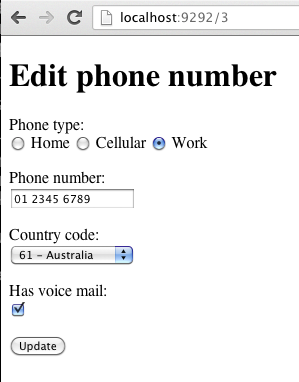
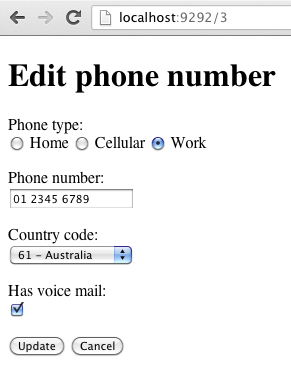
Added Cancel button to 142 so 'if' statement is needed.

Changed region(s): [[0.0, 0.0, 1.0, 1.0]]

diff --git a/142f-international-phone/controller.rb b/142f-international-phone/controller.rb
@@ -11,11 +11,15 @@ get "/:id" do
 end
 
 post "/:id" do
-  @phone                = Phone.find(params[:id])
-  @phone.number         = params[:number]
-  @phone.country_code   = params[:country_code]
-  @phone.phone_type     = params[:phone_type]
-  @phone.has_voice_mail = params[:has_voice_mail] == "on"
-  @phone.save!
-  redirect "/"
+  if params[:commit] == "Cancel"
+    redirect "/"
+  else
+    @phone                = Phone.find(params[:id])
+    @phone.number         = params[:number]
+    @phone.country_code   = params[:country_code]
+    @phone.phone_type     = params[:phone_type]
+    @phone.has_voice_mail = params[:has_voice_mail] == "on"
+    @phone.save!
+    redirect "/"
+  end
 end
